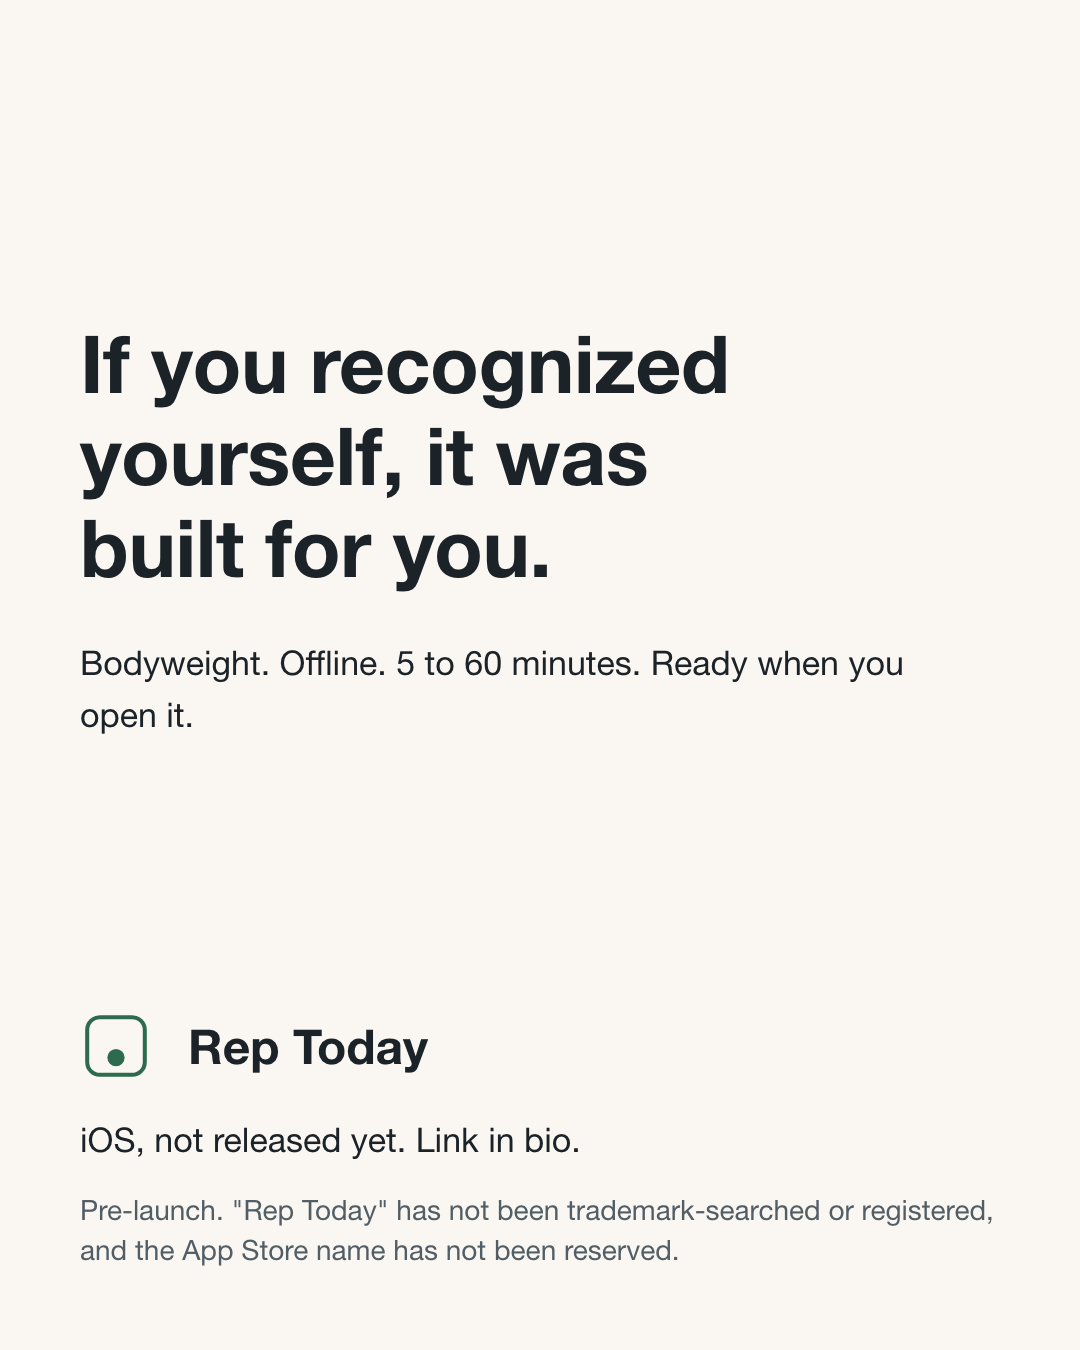
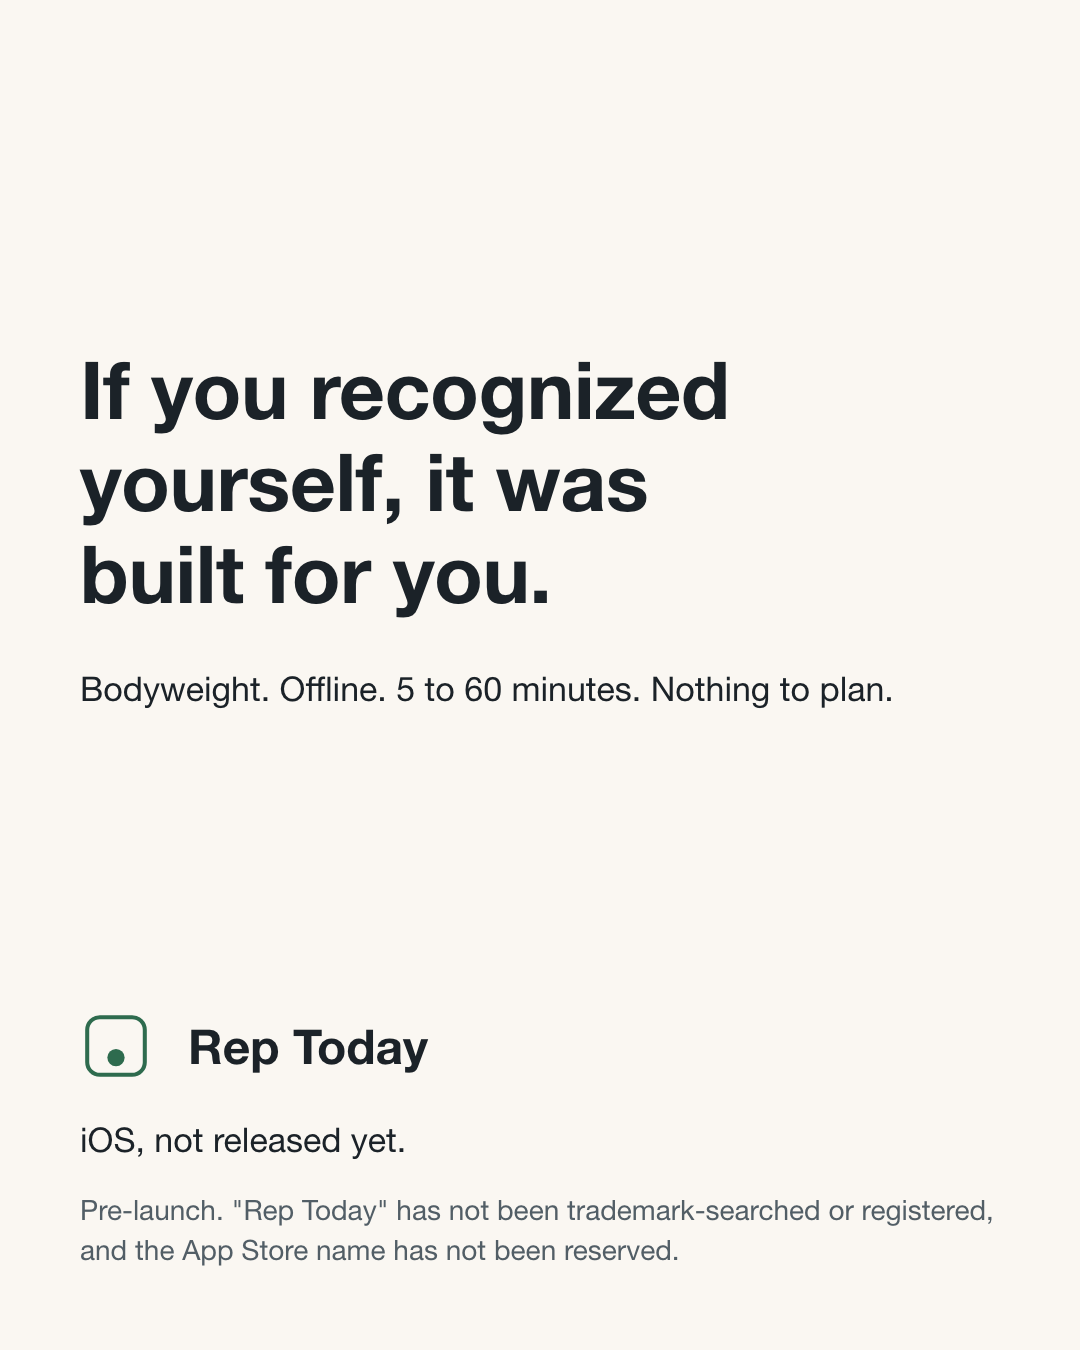
no-mistakes(review): fix carousel claim accuracy, hook pre-exposure, and guard gaps

Changed region(s): [[0.0611, 0.2489, 0.825, 0.56], [0.3972, 0.84, 0.5194, 0.8711]]

diff --git a/gtm/10-instagram/carousel.css b/gtm/10-instagram/carousel.css
@@ -66,7 +66,12 @@ body {
   color: var(--ink);
 }
 
-/* ---------- Type scale (section 5, at 2x) ---------- */
+/* ---------- Type scale (section 5, at 2x) ----------
+   The scale is carried in full on purpose, including the steps no slide uses
+   today (.h3, .small): this is the brand scale rendered for this canvas, and a
+   future slide that needs a step must find it here rather than invent a size,
+   which is what the "nothing below the scale" rule is protecting against. Every
+   rule below the scale is in use; if one falls out of use, delete it. */
 
 .overline {           /* Micro 12/16 */
   font-size: 24px;
@@ -75,7 +80,6 @@ body {
   letter-spacing: 0.04em;
   color: var(--moss);
 }
-.overline.quiet { color: var(--slate); }
 
 .display {            /* Display 56/60 */
   font-size: 112px;
@@ -186,12 +190,6 @@ body {
 }
 .stack > li:last-child { border-bottom: 2px solid var(--hairline); }
 .stack > li .lede { font-weight: 600; }
-.stack > li .note {
-  display: block;
-  font-size: 30px;
-  line-height: 44px;
-  color: var(--slate);
-}
 
 /* Two-step diagram: labelled steps with a Moss connector, no arrows-as-glyphs. */
 .steps { display: flex; align-items: stretch; gap: 32px; }
@@ -266,7 +264,10 @@ body {
 }
 
 /* The canonical clearance line (section 2). Always last, always Small,
-   always Slate, never below 24px rendered at 1080 wide. */
+   always Slate, never below 24px rendered at 1080 wide. It restates Small's
+   values rather than composing with .small deliberately: the one line that may
+   never render wrong must not depend on a second class being present in the
+   markup. */
 .legal {
   margin-top: 24px;
   font-size: 28px;

diff --git a/gtm/10-instagram/carousel-1-you-do-not-pick/slide-06.html b/gtm/10-instagram/carousel-1-you-do-not-pick/slide-06.html
@@ -1,0 +1,26 @@
+<!DOCTYPE html>
+<html lang="en">
+<head>
+<meta charset="utf-8">
+<title>Rep Today - PIN 1 - slide 6 of 7</title>
+<link rel="stylesheet" href="../carousel.css">
+</head>
+<body>
+<div class="slide">
+
+  <div class="rail rail-top">
+    <p class="overline">Said precisely</p>
+  </div>
+
+  <div class="zone">
+    <h2 class="h2">What "no deciding"<br>means here, exactly.</h2>
+    <p class="body" style="margin-top: 44px;">Setup asks about you once, on the first open: how fit you are now, why you are here, how long you usually have. It never asks you to choose a workout, and it does not come back.</p>
+    <p class="body" style="margin-top: 36px;">After that, the path from opening the app to starting a session asks nothing. No sign-up, no paywall. Apple Health and iCloud sync are optional, and iOS asks for those permissions only if you switch them on.</p>
+  </div>
+
+  <div class="rail rail-bottom">
+  </div>
+
+</div>
+</body>
+</html>

diff --git a/gtm/10-instagram/carousel-3-this-is-for-you-if/slide-07.html b/gtm/10-instagram/carousel-3-this-is-for-you-if/slide-07.html
@@ -13,7 +13,7 @@
 
   <div class="zone">
     <h2 class="h1">If you recognized<br>yourself, it was<br>built for you.</h2>
-    <p class="body" style="margin-top: 44px;">Bodyweight. Offline. 5 to 60 minutes. Ready when you open it.</p>
+    <p class="body" style="margin-top: 44px;">Bodyweight. Offline. 5 to 60 minutes. Nothing to plan.</p>
   </div>
 
   <div class="rail rail-bottom">
@@ -24,7 +24,7 @@
       </svg>
       <div class="name">Rep Today</div>
     </div>
-    <p class="status" style="margin-top: 32px;">iOS, not released yet. Link in bio.</p>
+    <p class="status" style="margin-top: 32px;">iOS, not released yet.</p>
     <p class="legal">Pre-launch. "Rep Today" has not been trademark-searched or registered, and the App Store name has not been reserved.</p>
   </div>
 

diff --git a/gtm/10-instagram/carousel-1-you-do-not-pick/slide-02.html b/gtm/10-instagram/carousel-1-you-do-not-pick/slide-02.html
@@ -9,12 +9,12 @@
 <div class="slide">
 
   <div class="rail rail-top">
-    <p class="overline">It opens ready</p>
+    <p class="overline">What you get instead</p>
   </div>
 
   <div class="zone">
-    <h2 class="h1">It is on screen when<br>the app opens.</h2>
-    <p class="body" style="margin-top: 48px;">A complete bodyweight session, already assembled and sized to the time you have. Anywhere from 5 to 60 minutes. One Start button, already there.</p>
+    <h2 class="h1">The session is<br>chosen for you.</h2>
+    <p class="body" style="margin-top: 48px;">A complete bodyweight session, assembled on your phone and sized to the time you have. Anywhere from 5 to 60 minutes. One Start button, nothing to browse.</p>
   </div>
 
   <div class="rail rail-bottom">

diff --git a/gtm/10-instagram/carousel-1-you-do-not-pick/slide-07.html b/gtm/10-instagram/carousel-1-you-do-not-pick/slide-07.html
@@ -12,7 +12,7 @@
   </div>
 
   <div class="zone">
-    <h2 class="h1">It opens ready. That is the entire idea.</h2>
+    <h2 class="h1">You bring the minutes.<br>It brings the session.</h2>
     <p class="body" style="margin-top: 44px;">Bodyweight only, so it needs no equipment. Built on the phone, so it needs no signal.</p>
   </div>
 
@@ -24,7 +24,7 @@
       </svg>
       <div class="name">Rep Today</div>
     </div>
-    <p class="status" style="margin-top: 32px;">iOS, not released yet. Link in bio.</p>
+    <p class="status" style="margin-top: 32px;">iOS, not released yet.</p>
     <p class="legal">Pre-launch. "Rep Today" has not been trademark-searched or registered, and the App Store name has not been reserved.</p>
   </div>
 

diff --git a/gtm/10-instagram/carousel-2-why-i-built-this/slide-07.html b/gtm/10-instagram/carousel-2-why-i-built-this/slide-07.html
@@ -12,7 +12,7 @@
   </div>
 
   <div class="zone">
-    <h2 class="h1">I wanted one that was already ready. So that is the one I built.</h2>
+    <h2 class="h1">I wanted one that did the deciding for me. So that is the one I built.</h2>
   </div>
 
   <div class="rail rail-bottom">
@@ -23,7 +23,7 @@
       </svg>
       <div class="name">Rep Today</div>
     </div>
-    <p class="status" style="margin-top: 32px;">iOS, not released yet. Link in bio.</p>
+    <p class="status" style="margin-top: 32px;">iOS, not released yet.</p>
     <p class="legal">Pre-launch. "Rep Today" has not been trademark-searched or registered, and the App Store name has not been reserved.</p>
   </div>
 

diff --git a/gtm/10-instagram/carousel-1-you-do-not-pick/slide-05.html b/gtm/10-instagram/carousel-1-you-do-not-pick/slide-05.html
@@ -9,7 +9,7 @@
 <div class="slide">
 
   <div class="rail rail-top">
-    <p class="overline">The whole path to the first rep</p>
+    <p class="overline">The whole path to a session</p>
   </div>
 
   <div class="zone">
@@ -24,7 +24,7 @@
         <p class="step-name">Start</p>
       </div>
     </div>
-    <p class="body" style="margin-top: 56px;">Nothing stands between them. No quiz, no account to make, no subscription sheet.</p>
+    <p class="body" style="margin-top: 56px;">Setup asks about you once, on the first open. After that, nothing stands between these two. No account to make, no subscription sheet.</p>
   </div>
 
   <div class="rail rail-bottom">

diff --git a/gtm/10-instagram/carousel-4-nothing-to-lose/slide-07.html b/gtm/10-instagram/carousel-4-nothing-to-lose/slide-07.html
@@ -24,7 +24,7 @@
       </svg>
       <div class="name">Rep Today</div>
     </div>
-    <p class="status" style="margin-top: 32px;">iOS, not released yet. Link in bio.</p>
+    <p class="status" style="margin-top: 32px;">iOS, not released yet.</p>
     <p class="legal">Pre-launch. "Rep Today" has not been trademark-searched or registered, and the App Store name has not been reserved.</p>
   </div>
 

diff --git a/gtm/10-instagram/carousel-5-a-floor-and-a-wall/slide-07.html b/gtm/10-instagram/carousel-5-a-floor-and-a-wall/slide-07.html
@@ -24,7 +24,7 @@
       </svg>
       <div class="name">Rep Today</div>
     </div>
-    <p class="status" style="margin-top: 32px;">iOS, not released yet. Link in bio.</p>
+    <p class="status" style="margin-top: 32px;">iOS, not released yet.</p>
     <p class="legal">Pre-launch. "Rep Today" has not been trademark-searched or registered, and the App Store name has not been reserved.</p>
   </div>
 

diff --git a/gtm/10-instagram/carousel-3-this-is-for-you-if/slide-03.html b/gtm/10-instagram/carousel-3-this-is-for-you-if/slide-03.html
@@ -13,7 +13,7 @@
   </div>
 
   <div class="zone">
-    <h2 class="h1">You never lacked the will. You lacked a workout that was already there.</h2>
+    <h2 class="h1">You never lacked the will. You lacked a session you did not have to plan.</h2>
   </div>
 
   <div class="rail rail-bottom">
